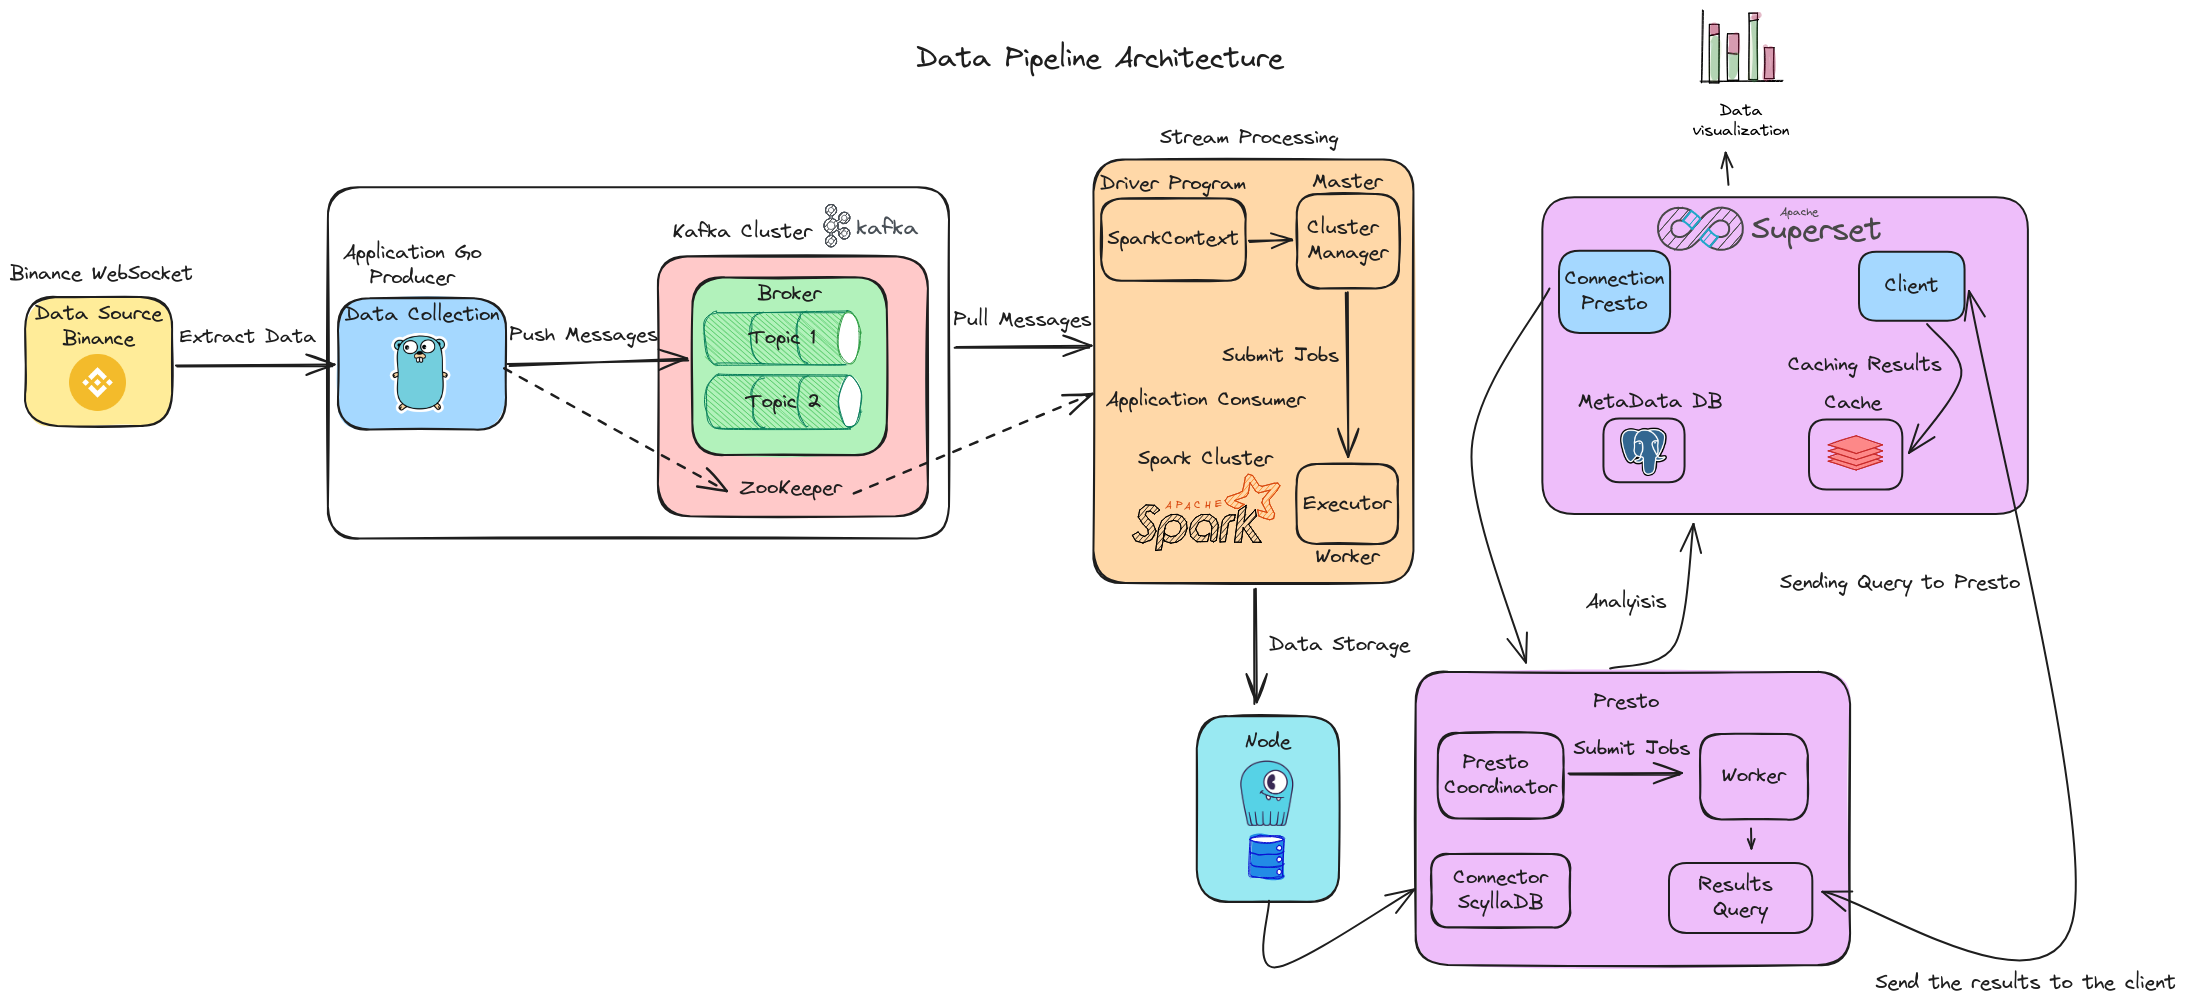
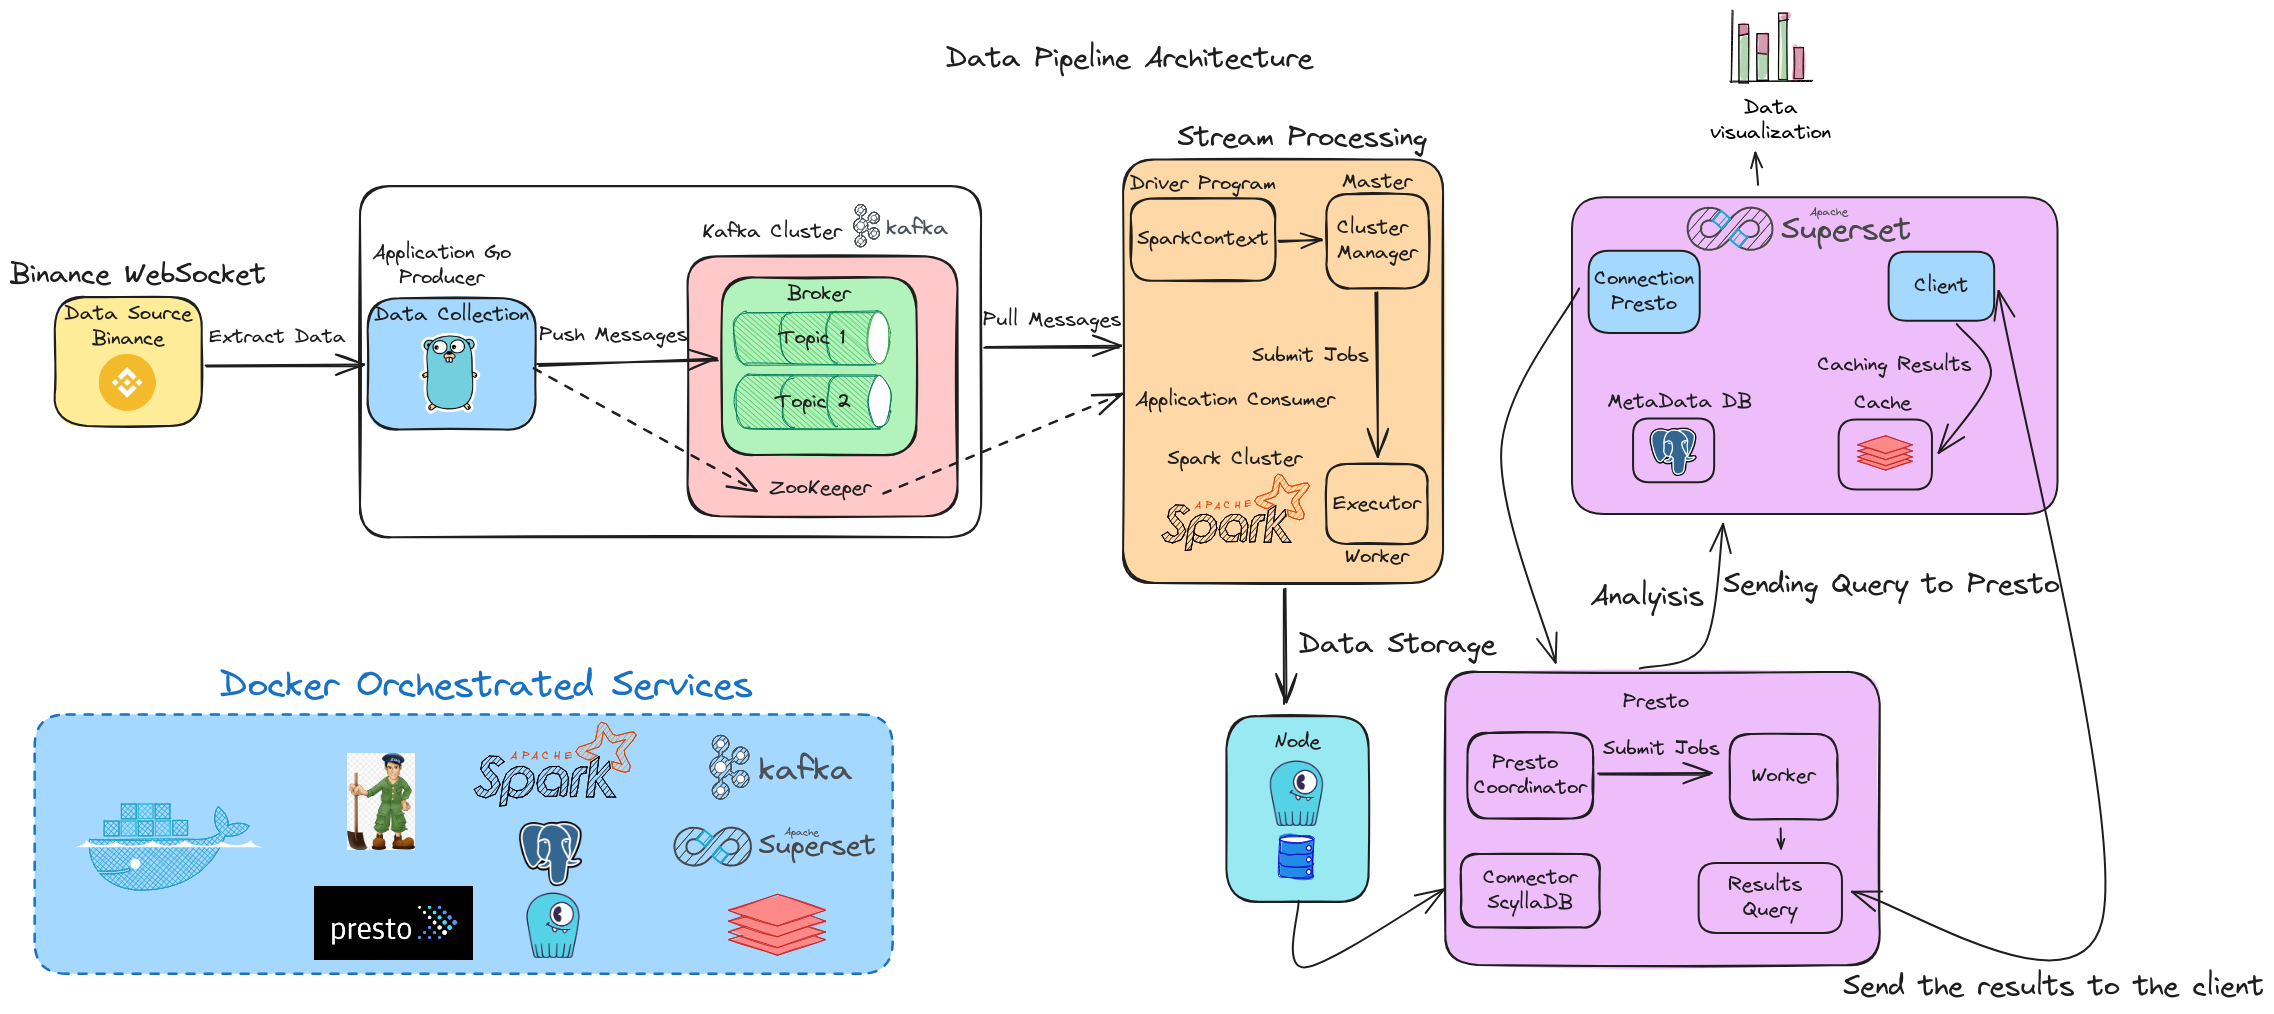
finish proyect

diff --git a/README.md b/README.md
@@ -37,6 +37,11 @@ Spark se encarga de consumir datos desde los topics de Kafka y realizar analisis
 
 9. **Visualizacion de Datos (Apache Superset):** Utilice Apache Superset para visualizar los datos almacenados en ScyllaDB, proporcionando paneles interactivos y dashboards para el analisis y la toma de decisiones.
 
+    - **Client:** Interfaz de usuario para construir dashboards y visualizaciones.
+    - **Redis:** Sistema de almacenamiento en caché para mejorar el rendimiento.
+    - **Metadata DB (PostgreSQL):** Base de datos para almacenar metadatos de dashboards y gráficos.
+    - **Connector Presto:** Permite a Superset conectarse y ejecutar consultas en Presto.
+
 10. **Orquestacion de Contenedores (Docker):** Todos los servicios se gestionan y ejecutan en contenedores Docker, lo que simplifica la implementacion, la gestion de dependencias y la escalabilidad de la infraestructura.
 
 ## Configuracion y Ejecuccion
